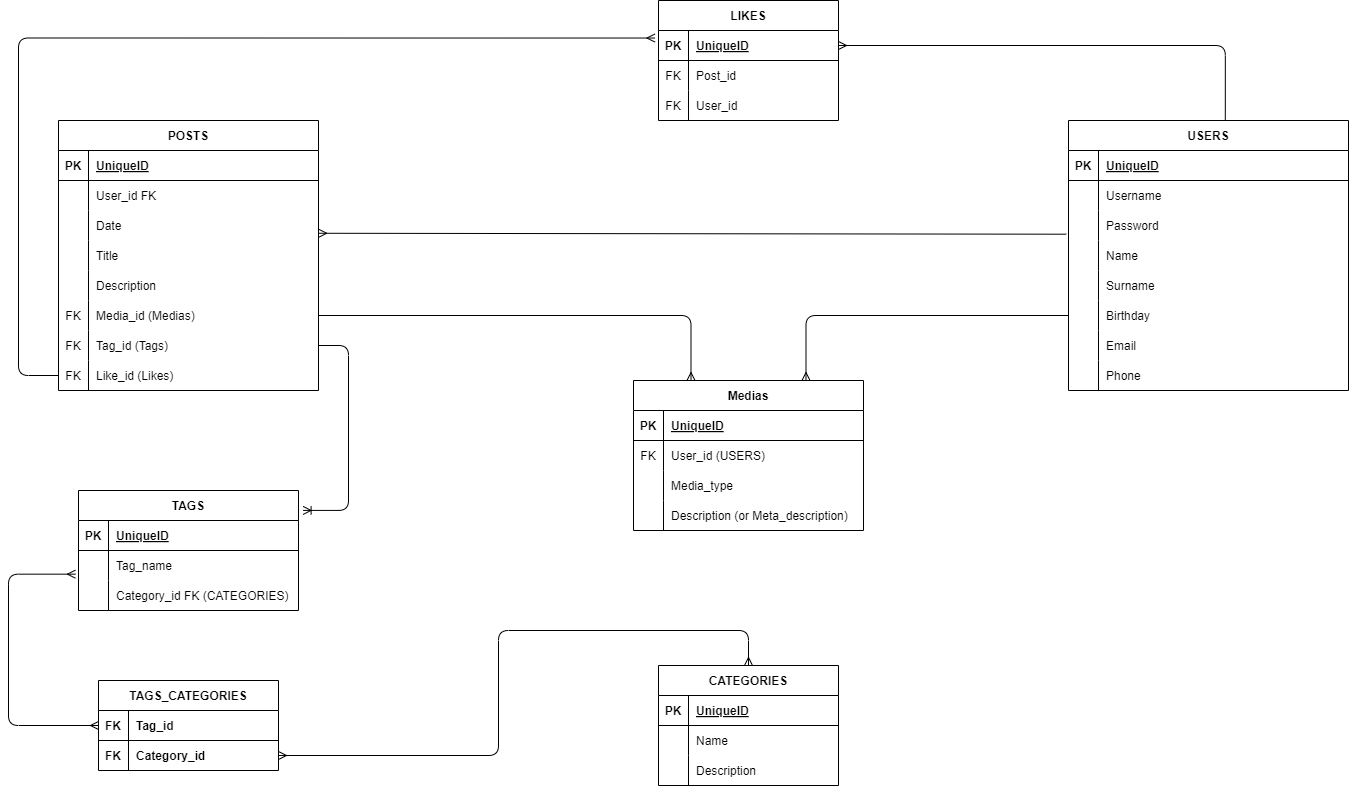
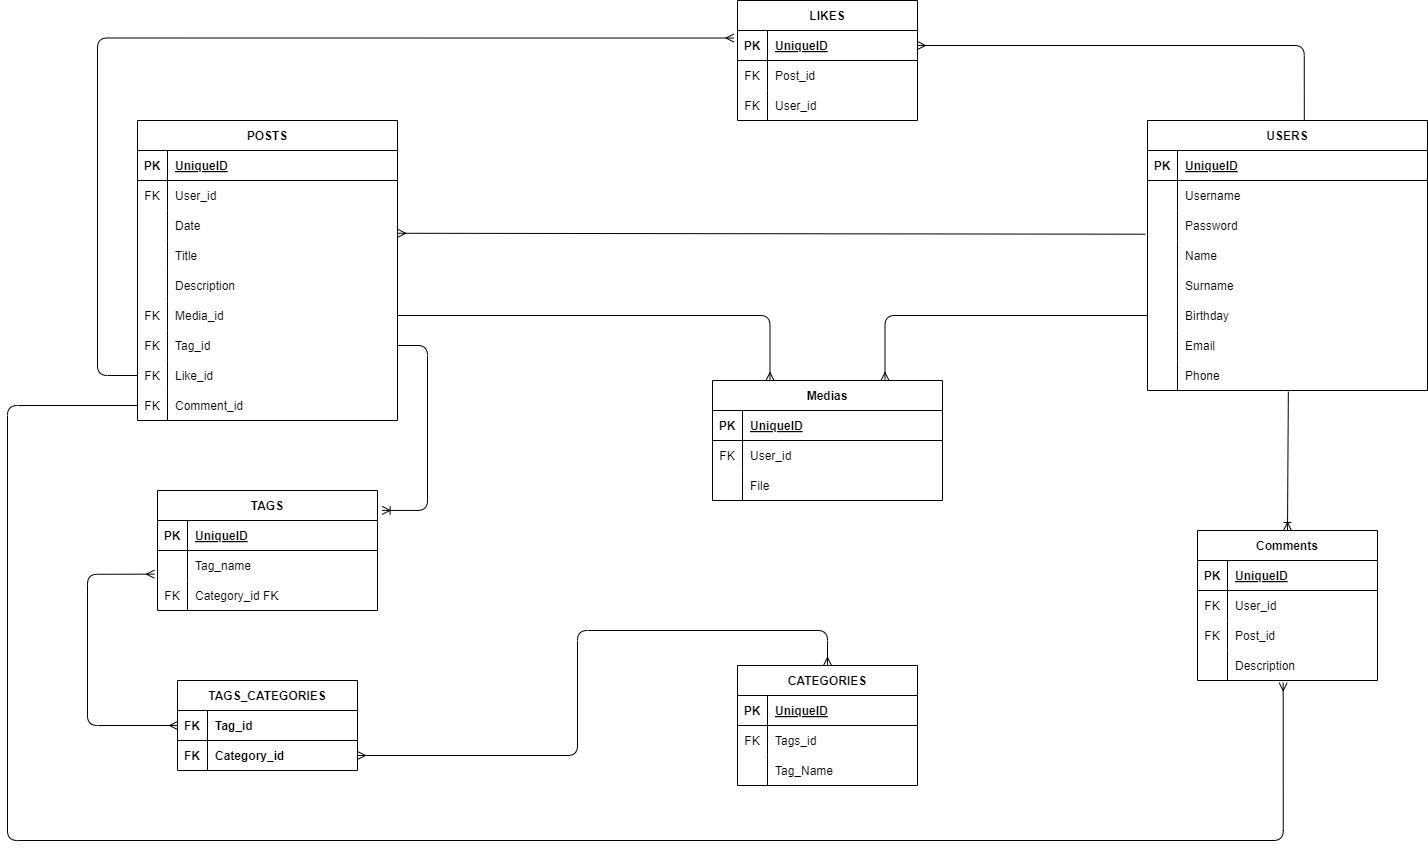
last-commit

diff --git a/db-library.md b/db-library.md
@@ -3,54 +3,54 @@
 //indviduo tutte le tabelle da inserire e definisco le caratteristiche
 
 # table: POSTS
-- id * PK UNSIGNED AI BIGINT
-- User_id FK BIGINT
-- Date DATE
-- Title VARCHAR()
-- Description SMALL TEXT
-- Media_id FK
-- Tags
-- Comments
-- Like_id BIGINT FK
+- id * PK-UNSIGNED-AI-BIGINT (NOTNULL)
+- User_id FK-BIGINT (NOTNULL)
+- Date DATE (NOTNULL)
+- Title VARCHAR(100) (NOTNULL)
+- Description TEXT (NULL)
+- Media_id FK-BLOB (NULL)
+- Tags VARCHAR (NULL)
+- COMMENTS TEXT-FK (NULL)
+- Like_id BIGINT-FK (NULL)
 
 # table: USERS
-- id * PK UNSIGNED AI BIGINT
-- Username
-- Password
-- Name
-- Surname
-- Birthday
-- Email
-- Phone
+- id * PK-UNSIGNED-AI-BIGINT (NOTNULL)
+- Username CHAR (30) (NOTNULL)
+- Password CHAR (25) (NOTNULL)
+- Name VARCHAR (150) (NOTNULL)
+- Surname VARCHAR (150) (NOTNULL)
+- Birthday DATE (NOTNULL)
+- Email VARCHAR(100) (NOTNULL)
+- Phone CHAR(30) (NULL)
 
 # table: LIKES
-- id* PK  UNSIGNED AI BIGINT
-- User_id FK BIGINT
-- Post_id FK BIGINT
+- id* PK-UNSIGNED-AI-BIGINT
+- User_id FK-BIGINT (NOTNULL)
+- Post_id FK-BIGINT (NOTNULL)
 
 
 # table: CATEGORIES
-- id * PK UNSIGNED AI BIGINT
-- Name
-- Description
-- Tag_id FK
+- id * PK-UNSIGNED-AI-BIGINT
+- Name CHAR (80) (NOTNULL)
+- Description TEXT (NULL)
+- Tag_id FK (NOTNULL)
 
 
 # table: TAGS
-- id* PK UNSIGNED AI BIGINT
-- Tag_Name
-- Category_id 
+- id* PK-UNSIGNED-AI-BIGINT
+- Tag_Name VARCHAR(80) (NOTNULL)
+- Category_id FK-BIGINT (NOTNULL)
 
 # table: COMMENTS
 - id* PK UNSIGNED AI BIGINT0
-- Description
-- Post_id
-- User_id
+- Description TEXT (NOTNULL)
+- Post_id FK-BIGINT (NOTNULL)
+- User_id FK-BIGINT (NOTNULL)
 
 # table: MEDIAS
-- id * PK BIGINT
-- User_id FK BIGINT
-- Description
+- id * PK-AI-UNSIGNED-BIGINT
+- User_id FK-BIGINT
+- Files BLOB (NOTNULL)
 
 
 
